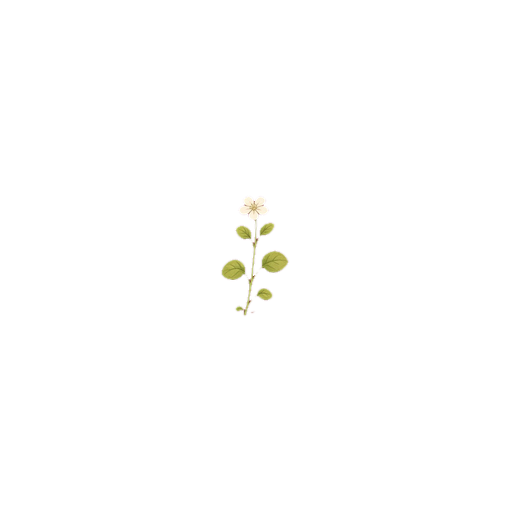
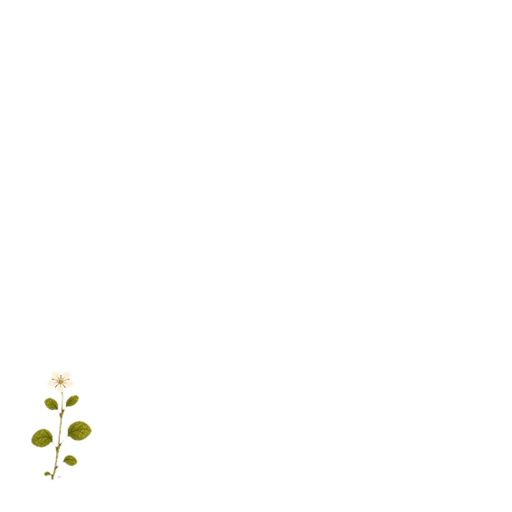
Move Storybook weeds to the tile corners so they stay visible.
Recompose the weed and weedy overlays from the original painted cut-outs, placed in the lower corners and slightly darkened so they read beside any crop stage and on snow. Keep the centred keyed PNGs under sources/originals. Classic SVG weeds get the same corner treatment. Add a regression test that pack weed alpha sits in the corners, not the crop centre.

Changed region(s): [[0.4375, 0.375, 0.5625, 0.625], [0.0625, 0.7188, 0.1875, 0.9375]]

diff --git a/sprites.py b/sprites.py
@@ -575,35 +575,41 @@ def svg_unknown(key: str) -> str:
     )
 
 
-def _weed_overlay(weedy: bool = False) -> str:
-    """A gentle little weed in the lower-left, slightly fuller if the plot is weedy."""
-    # Sit to the side of the main crop so both can be seen.
-    x, y = 34, 118
-    leaf = P["weed"]
-    dark = P["weed2"]
-    tip = P["weed_tip"]
-    stem_h = 22 if weedy else 16
+def _weed_clump(x: int, y: int, fuller: bool = False, flip: bool = False) -> str:
+    """One small corner weed. Coordinates are the base of the stem."""
+    # A little darker/more saturated than the old mid-green, so clumps read on snow.
+    leaf, dark, tip, flower = "#3f6e32", "#2a4f24", "#5a8a30", "#c9d47a"
+    s = -1 if flip else 1
+    stem_h = 20 if fuller else 16
     parts = [
-        f'<path d="M{x},{y} C{x-1},{y-8} {x},{y-stem_h} {x},{y-stem_h}" '
+        f'<path d="M{x},{y} C{x-s},{y-8} {x},{y-stem_h} {x},{y-stem_h}" '
         f'stroke="{dark}" stroke-width="2" fill="none" stroke-linecap="round"/>',
-        f'<ellipse cx="{x-7}" cy="{y-10}" rx="7" ry="4" fill="{leaf}" '
-        f'transform="rotate(-28 {x-7} {y-10})"/>',
-        f'<ellipse cx="{x+7}" cy="{y-12}" rx="6.5" ry="3.6" fill="{tip}" '
-        f'transform="rotate(26 {x+7} {y-12})"/>',
+        f'<ellipse cx="{x-7*s}" cy="{y-10}" rx="7" ry="4" fill="{leaf}" '
+        f'transform="rotate({-28*s} {x-7*s} {y-10})"/>',
+        f'<ellipse cx="{x+7*s}" cy="{y-12}" rx="6.5" ry="3.6" fill="{tip}" '
+        f'transform="rotate({26*s} {x+7*s} {y-12})"/>',
     ]
-    if weedy:
+    if fuller:
         parts.append(
-            f'<path d="M{x+10},{y+2} C{x+12},{y-10} {x+9},{y-20} {x+9},{y-20}" '
+            f'<path d="M{x+10*s},{y+2} C{x+12*s},{y-10} {x+9*s},{y-20} {x+9*s},{y-20}" '
             f'stroke="{dark}" stroke-width="1.8" fill="none" stroke-linecap="round"/>'
         )
         parts.append(
-            f'<ellipse cx="{x+16}" cy="{y-14}" rx="6" ry="3.2" fill="{leaf}" '
-            f'transform="rotate(30 {x+16} {y-14})"/>'
+            f'<ellipse cx="{x+16*s}" cy="{y-14}" rx="6" ry="3.2" fill="{leaf}" '
+            f'transform="rotate({30*s} {x+16*s} {y-14})"/>'
         )
-        parts.append(f'<circle cx="{x+9}" cy="{y-21}" r="2.2" fill="{P["weed_flower"]}"/>')
+        parts.append(f'<circle cx="{x+9*s}" cy="{y-21}" r="2.2" fill="{flower}"/>')
     else:
-        parts.append(f'<circle cx="{x}" cy="{y-stem_h-1}" r="1.6" fill="{P["weed_flower"]}" opacity="0.85"/>')
+        parts.append(f'<circle cx="{x}" cy="{y-stem_h-1}" r="1.6" fill="{flower}" opacity="0.85"/>')
     return "\n".join(parts)
+
+
+def _weed_overlay(weedy: bool = False) -> str:
+    """Weeds sit in the lower corners so they stay visible beside a crop."""
+    left = _weed_clump(22, 140, fuller=weedy)
+    if not weedy:
+        return left
+    return left + "\n" + _weed_clump(138, 136, fuller=False, flip=True)
 
 
 def svg_for_key(key: str) -> str:

diff --git a/test_engine.py b/test_engine.py
@@ -2202,6 +2202,40 @@ class ArtPackAndPage(unittest.TestCase):
         self.assertIn('"id": "storybook"', page)
         self.assertIn('"id": "classic"', page)
 
+    def test_storybook_weeds_sit_in_the_corners(self):
+        from packs import PACKS_ROOT
+
+        def alpha_map(name):
+            path = PACKS_ROOT / "storybook" / "overlays" / name
+            width, height, color, raw = self._png_info(path)
+            self.assertEqual((width, height, color), (512, 512, 6), name)
+            rows = self._unfilter_rows(width, height, 4, raw)
+            return rows, width, height
+
+        def coverage(rows, width, box):
+            x0, y0, x1, y1 = box
+            n = visible = 0
+            for y in range(y0, y1):
+                row = rows[y]
+                for x in range(x0, x1):
+                    n += 1
+                    if row[x * 4 + 3] > 16:
+                        visible += 1
+            return visible / n if n else 0
+
+        for name, expect_right in (("weed.png", False), ("weedy.png", True)):
+            rows, width, height = alpha_map(name)
+            mid = coverage(rows, width, (176, 176, 336, 336))
+            bl = coverage(rows, width, (0, 320, 160, 512))
+            br = coverage(rows, width, (352, 320, 512, 512))
+            self.assertLess(mid, 0.005, f"{name} should leave the crop centre clear")
+            self.assertGreater(bl, 0.02, f"{name} should be visible in the lower-left")
+            if expect_right:
+                self.assertGreater(br, 0.01, f"{name} should also appear in the lower-right")
+            else:
+                self.assertLess(br, 0.005, f"{name} is a single clump in the lower-left")
+
+
 
 if __name__ == "__main__":
     unittest.main()

diff --git a/static/packs/storybook/sources/prompts.md b/static/packs/storybook/sources/prompts.md
@@ -63,3 +63,7 @@ Same style and layout as the matching non-snow ground tiles, no footprints, no p
 - **soil_wet_snow** — The same untilled layout, slushier and thinner snow, more dark damp earth showing.
 - **soil_tilled_snow** — Hand-tilled clods with snow settled in the hollows and darker earth on the raised clods.
 - **soil_watered_snow** — Tilled clods, wetter and darker, with thinner slushy snow in the hollows and a gentle damp sheen (not a glossy 3D render).
+
+## Weed placement (later pass)
+
+The first `weed` and `weedy` overlays were painted in the centre of the cell, so they disappeared under crop sprites. They were recomposed from those originals (no new painting): a slightly darker, more saturated cut-out of the same plants, placed in the lower-left corner for a single weed, and in the lower-left and lower-right corners for a weedy plot, leaving the crop centre clear. The earlier centred keyed PNGs are kept as `sources/originals/weed_centered.png` and `weedy_centered.png`.
